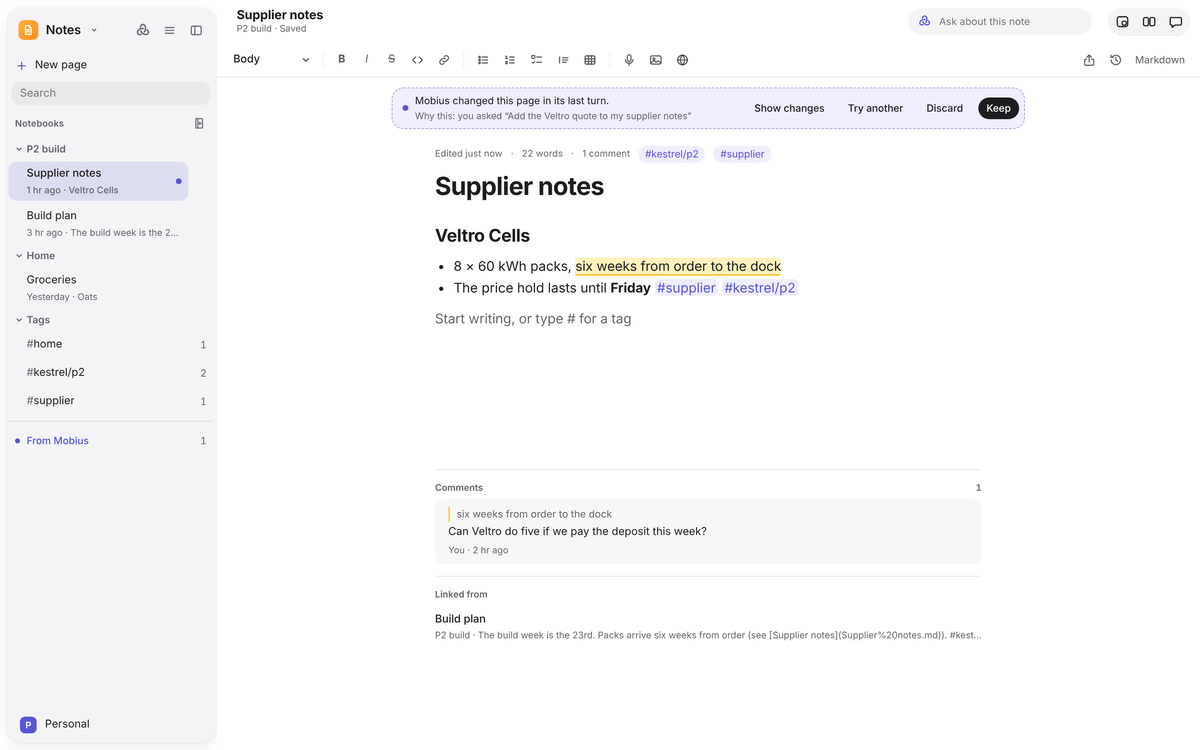
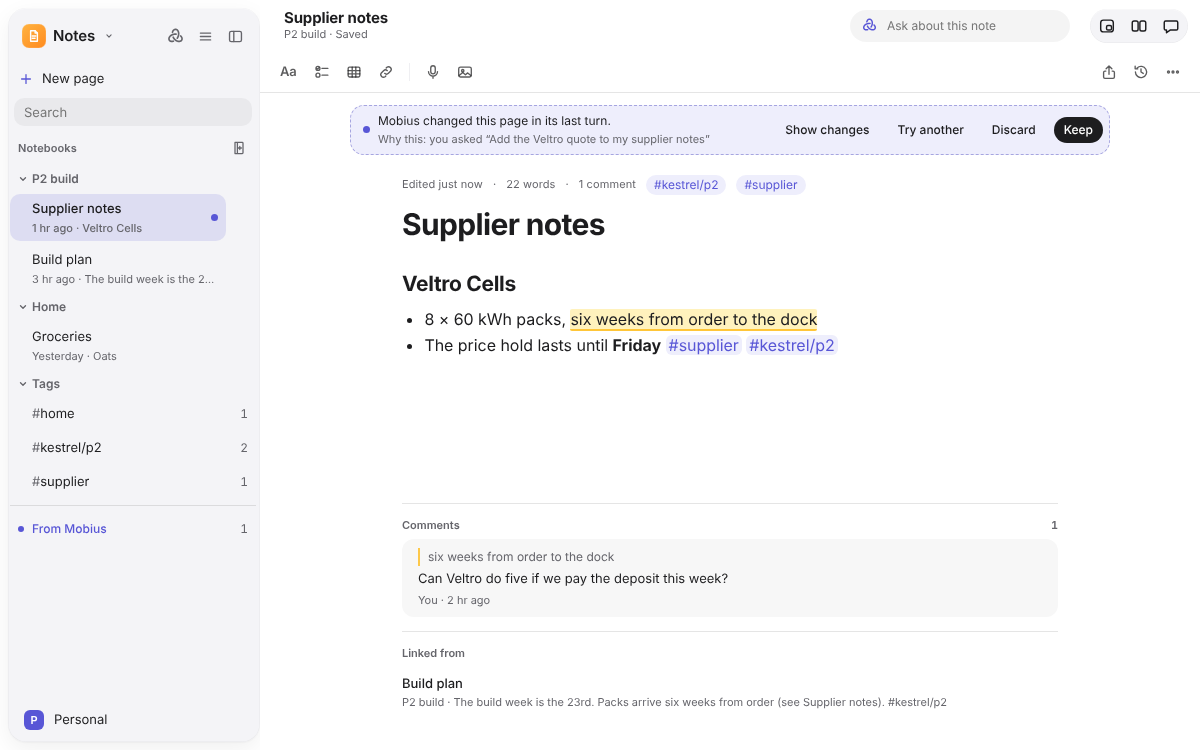
Notes: an Aa panel for styles and marks, a calmer format bar, and the writing hint only on empty pages
- Aa opens one panel with Title, Heading, Subheading and Body, then bold, italic, strikethrough, code, lists and quote,
  as in Apple Notes. The bar keeps Checklist, Table and Link, then Record and Picture; Share and History stay right.
- A More (...) menu holds Clip a web page and Show Markdown; the Markdown button shows only while that view is on.
- 'Start writing, or type # for a tag' shows only under an empty title, not on the empty line at the end of every page.
- Preview: a page's preview drops link markup, as the Rust list does.
- e2e, docs and the README screenshot follow.

Claude-Session: https://claude.ai/code/session_01VRGwo6hyLbLgse9wLW1PkV

diff --git a/apps/desktop/src/NoteEditor.tsx b/apps/desktop/src/NoteEditor.tsx
@@ -2,6 +2,8 @@ import { EmptyState } from './EmptyState';
 import { newItemIn } from './NotesSidebar';
 import { KEPT_EVENT, keepTurn, keptTurns, turnId } from './ReviewStrip';
 import { useEffect, useMemo, useRef, useState, type FormEvent } from 'react';
+import { createPortal } from 'react-dom';
+import { ContextMenu } from './ContextMenu';
 import { settleGone, settleIn, settleKept } from './settle';
 import { EditorContent, useEditor, useEditorState, type Editor } from '@tiptap/react';
 import { Extension } from '@tiptap/core';
@@ -120,10 +122,17 @@ const STYLES = [
   { id: 'h3', label: 'Subheading' },
 ] as const;
 
+/** The styles in the Aa panel, in the order Apple Notes lists them: biggest first. */
+const STYLES_SHOWN = [STYLES[1], STYLES[2], STYLES[3], STYLES[0]];
+
 /** The Markdown the editor holds, written as people write it: one blank line between blocks, a newline at the end. */
 const markdownOf = (e: Editor) => tidyMarkdown(e.getMarkdown());
 
-/** The format bar's buttons, with what they show as pressed. Off in Markdown, where the marks are typed. */
+/**
+ * The format bar, as in Apple Notes: Aa opens a panel with the text styles and marks, and the bar itself keeps only
+ * what is reached for while writing (checklist, table, link). The buttons show as pressed what the cursor is in.
+ * Off in Markdown, where the marks are typed.
+ */
 function FormatButtons({ editor, onLink }: { editor: Editor; onLink: () => void }) {
   const state = useEditorState({
     editor,
@@ -133,6 +142,14 @@ function FormatButtons({ editor, onLink }: { editor: Editor; onLink: () => void 
       bullet: e.isActive('bulletList'), ordered: e.isActive('orderedList'), task: e.isActive('taskList'), quote: e.isActive('blockquote'), table: e.isActive('table'),
     }),
   });
+  const [panel, setPanel] = useState(false);
+  const wrap = useRef<HTMLDivElement>(null);
+  useEffect(() => {
+    if (!panel) return;
+    const away = (e: PointerEvent) => { if (!wrap.current?.contains(e.target as Node | null)) setPanel(false); };
+    window.addEventListener('pointerdown', away);
+    return () => window.removeEventListener('pointerdown', away);
+  }, [panel]);
   const run = (f: (c: ReturnType<Editor['chain']>) => ReturnType<Editor['chain']>) => () => { f(editor.chain().focus()).run(); };
   const setStyle = (id: string) => {
     const chain = editor.chain().focus();
@@ -140,36 +157,52 @@ function FormatButtons({ editor, onLink }: { editor: Editor; onLink: () => void 
     else chain.setHeading({ level: Number(id.slice(1)) as 1 | 2 | 3 }).run();
   };
   const keep = (e: { preventDefault: () => void }) => e.preventDefault();
+  const marked = state.bold || state.italic || state.strike || state.code || state.style !== 'p' || state.bullet || state.ordered || state.quote;
   return (
     <>
-      <select aria-label="Paragraph style" value={state.style} onChange={(e) => setStyle(e.target.value)}>
-        {STYLES.map((s) => <option key={s.id} value={s.id}>{s.label}</option>)}
-      </select>
-      <span className="doc-tool-sep" />
-      <button type="button" className="doc-tool" aria-label="Bold" aria-pressed={state.bold} title="Bold (Ctrl+B)" onPointerDown={keep} onClick={run((c) => c.toggleBold())}><b>B</b></button>
-      <button type="button" className="doc-tool" aria-label="Italic" aria-pressed={state.italic} title="Italic (Ctrl+I)" onPointerDown={keep} onClick={run((c) => c.toggleItalic())}><i>I</i></button>
-      <button type="button" className="doc-tool" aria-label="Strikethrough" aria-pressed={state.strike} title="Strikethrough (Ctrl+Shift+S)" onPointerDown={keep} onClick={run((c) => c.toggleStrike())}><s>S</s></button>
-      <button type="button" className="doc-tool" aria-label="Code" aria-pressed={state.code} title="Code (Ctrl+E)" onPointerDown={keep} onClick={run((c) => c.toggleCode())}>
-        <svg viewBox="0 0 20 20" aria-hidden="true"><path d="M7.5 6 3.5 10l4 4M12.5 6l4 4-4 4" /></svg>
-      </button>
-      <button type="button" className="doc-tool" aria-label="Link" aria-pressed={state.link} title={state.link ? 'Remove the link' : 'Link'} onPointerDown={keep} onClick={() => (state.link ? editor.chain().focus().unsetLink().run() : onLink())}>
-        <svg viewBox="0 0 20 20" aria-hidden="true"><path d="M8.5 11.5a3 3 0 0 0 4.2 0l2.5-2.5a3 3 0 0 0-4.2-4.2l-.8.8M11.5 8.5a3 3 0 0 0-4.2 0L4.8 11a3 3 0 0 0 4.2 4.2l.8-.8" /></svg>
-      </button>
-      <span className="doc-tool-sep" />
-      <button type="button" className="doc-tool" aria-label="Bulleted list" aria-pressed={state.bullet} title="Bulleted list (Ctrl+Shift+8)" onPointerDown={keep} onClick={run((c) => c.toggleBulletList())}>
-        <svg viewBox="0 0 20 20" aria-hidden="true"><circle cx="5" cy="6" r="1" /><circle cx="5" cy="10" r="1" /><circle cx="5" cy="14" r="1" /><path d="M8.5 6h7M8.5 10h7M8.5 14h7" /></svg>
-      </button>
-      <button type="button" className="doc-tool" aria-label="Numbered list" aria-pressed={state.ordered} title="Numbered list (Ctrl+Shift+7)" onPointerDown={keep} onClick={run((c) => c.toggleOrderedList())}>
-        <svg viewBox="0 0 20 20" aria-hidden="true"><path d="M4 5h1.5v3M4 8h3M4 12.5c.5-.8 2.5-.8 2.5.3 0 .8-2.5 1.5-2.5 2.2h2.6M9.5 6h6M9.5 10h6M9.5 14h6" /></svg>
-      </button>
+      <div className="note-aa" ref={wrap}>
+        <button type="button" className="doc-tool note-aa-btn" aria-label="Format text" title="Styles, bold, italic and lists" aria-haspopup="dialog" aria-expanded={panel} data-marked={marked || undefined} onPointerDown={keep} onClick={() => setPanel((o) => !o)}>
+          <span aria-hidden="true">Aa</span>
+        </button>
+        {panel && (
+          <div className="note-aa-panel glass" role="dialog" aria-label="Text format" onKeyDown={(e) => { if (e.key === 'Escape') { e.stopPropagation(); setPanel(false); editor.commands.focus(); } }}>
+            <div className="note-aa-styles" role="group" aria-label="Paragraph style">
+              {STYLES_SHOWN.map((s) => (
+                <button key={s.id} type="button" className="note-aa-style" data-style={s.id} aria-pressed={state.style === s.id} onPointerDown={keep} onClick={() => setStyle(s.id)}>{s.label}</button>
+              ))}
+            </div>
+            <div className="note-aa-row">
+              <div className="note-aa-group" role="group" aria-label="Marks">
+                <button type="button" className="doc-tool" aria-label="Bold" aria-pressed={state.bold} title="Bold (Ctrl+B)" onPointerDown={keep} onClick={run((c) => c.toggleBold())}><b>B</b></button>
+                <button type="button" className="doc-tool" aria-label="Italic" aria-pressed={state.italic} title="Italic (Ctrl+I)" onPointerDown={keep} onClick={run((c) => c.toggleItalic())}><i>I</i></button>
+                <button type="button" className="doc-tool" aria-label="Strikethrough" aria-pressed={state.strike} title="Strikethrough (Ctrl+Shift+S)" onPointerDown={keep} onClick={run((c) => c.toggleStrike())}><s>S</s></button>
+                <button type="button" className="doc-tool" aria-label="Code" aria-pressed={state.code} title="Code (Ctrl+E)" onPointerDown={keep} onClick={run((c) => c.toggleCode())}>
+                  <svg viewBox="0 0 20 20" aria-hidden="true"><path d="M7.5 6 3.5 10l4 4M12.5 6l4 4-4 4" /></svg>
+                </button>
+              </div>
+              <div className="note-aa-group" role="group" aria-label="Lists">
+                <button type="button" className="doc-tool" aria-label="Bulleted list" aria-pressed={state.bullet} title="Bulleted list (Ctrl+Shift+8)" onPointerDown={keep} onClick={run((c) => c.toggleBulletList())}>
+                  <svg viewBox="0 0 20 20" aria-hidden="true"><circle cx="5" cy="6" r="1" /><circle cx="5" cy="10" r="1" /><circle cx="5" cy="14" r="1" /><path d="M8.5 6h7M8.5 10h7M8.5 14h7" /></svg>
+                </button>
+                <button type="button" className="doc-tool" aria-label="Numbered list" aria-pressed={state.ordered} title="Numbered list (Ctrl+Shift+7)" onPointerDown={keep} onClick={run((c) => c.toggleOrderedList())}>
+                  <svg viewBox="0 0 20 20" aria-hidden="true"><path d="M4 5h1.5v3M4 8h3M4 12.5c.5-.8 2.5-.8 2.5.3 0 .8-2.5 1.5-2.5 2.2h2.6M9.5 6h6M9.5 10h6M9.5 14h6" /></svg>
+                </button>
+                <button type="button" className="doc-tool" aria-label="Quote" aria-pressed={state.quote} title="Quote (Ctrl+Shift+B)" onPointerDown={keep} onClick={run((c) => c.toggleBlockquote())}>
+                  <svg viewBox="0 0 20 20" aria-hidden="true"><path d="M5 6v8M9 7h7M9 10h7M9 13h5" /></svg>
+                </button>
+              </div>
+            </div>
+          </div>
+        )}
+      </div>
       <button type="button" className="doc-tool" aria-label="Checklist" aria-pressed={state.task} title="Checklist (Ctrl+Shift+9)" onPointerDown={keep} onClick={run((c) => c.toggleTaskList())}>
-        <svg viewBox="0 0 20 20" aria-hidden="true"><rect x="3.5" y="4" width="4" height="4" rx="1" /><path d="m4.3 13.2 1 1 1.9-2.2M10 6h6.5M10 13h6.5" /></svg>
-      </button>
-      <button type="button" className="doc-tool" aria-label="Quote" aria-pressed={state.quote} title="Quote (Ctrl+Shift+B)" onPointerDown={keep} onClick={run((c) => c.toggleBlockquote())}>
-        <svg viewBox="0 0 20 20" aria-hidden="true"><path d="M5 6v8M9 7h7M9 10h7M9 13h5" /></svg>
+        <svg viewBox="0 0 20 20" aria-hidden="true"><circle cx="5.5" cy="6" r="2.2" /><path d="m4.4 6 .8.8 1.4-1.6" /><circle cx="5.5" cy="13.5" r="2.2" /><path d="M10 6h6.5M10 13.5h6.5" /></svg>
       </button>
       <button type="button" className="doc-tool" aria-label="Table" aria-pressed={state.table} title={state.table ? 'Delete table' : 'Insert table'} onPointerDown={keep} onClick={run((c) => (state.table ? c.deleteTable() : c.insertTable({ rows: 3, cols: 2, withHeaderRow: true })))}>
         <svg viewBox="0 0 20 20" aria-hidden="true"><rect x="3.5" y="4.5" width="13" height="11" rx="1.5" /><path d="M3.5 8.5h13M3.5 12h13M8 4.5v11M12 4.5v11" /></svg>
+      </button>
+      <button type="button" className="doc-tool" aria-label="Link" aria-pressed={state.link} title={state.link ? 'Remove the link' : 'Link to a note or a web page (or type [[)'} onPointerDown={keep} onClick={() => (state.link ? editor.chain().focus().unsetLink().run() : onLink())}>
+        <svg viewBox="0 0 20 20" aria-hidden="true"><path d="M8.5 11.5a3 3 0 0 0 4.2 0l2.5-2.5a3 3 0 0 0-4.2-4.2l-.8.8M11.5 8.5a3 3 0 0 0-4.2 0L4.8 11a3 3 0 0 0 4.2 4.2l.8-.8" /></svg>
       </button>
       {state.table && (
         <>
@@ -233,7 +266,9 @@ export function NoteEditor({ notes, autoFocus = true, onSelection, review }: { n
       TaskList,
       TaskItem.configure({ nested: true }),
       Markdown,
-      Placeholder.configure({ placeholder: ({ node }) => (node.type.name === 'heading' ? 'Title' : 'Start writing, or type # for a tag') }),
+      // The hints are for a page still to be written: an empty title, and the first line under it. A page with words
+      // in it shows none, so the empty line kept at its end does not read as a prompt.
+      Placeholder.configure({ placeholder: ({ editor: e, node, pos }) => (node.type.name === 'heading' ? (pos === 0 ? 'Title' : '') : e.state.doc.childCount <= 2 ? 'Start writing, or type # for a tag' : '') }),
       NoteTags,
       image,
       commentMarks,
@@ -366,6 +401,7 @@ export function NoteEditor({ notes, autoFocus = true, onSelection, review }: { n
   const caret = useRef<number | null>(null);
   useEffect(() => { caret.current = null; }, [path]);
   const [clipping, setClipping] = useState<string | null>(null);
+  const [more, setMore] = useState<{ x: number; y: number } | null>(null);
   const [linking, setLinking] = useState<string | null>(null);
   const [insertProblem, setInsertProblem] = useState<string | null>(null);
   const recordedFor = useRef(0);
@@ -584,9 +620,6 @@ export function NoteEditor({ notes, autoFocus = true, onSelection, review }: { n
                 <input ref={picker} type="file" multiple hidden aria-label="Choose files to add" onChange={(e) => { const files = [...(e.target.files ?? [])]; e.target.value = ''; void addFiles(files); }} />
               </>
             )}
-            <button type="button" className="doc-tool" aria-label="Clip from web" title="Clip a web page into this page" aria-expanded={clipping !== null} onPointerDown={keep} onClick={() => setClipping((c) => (c === null ? '' : null))}>
-              <svg viewBox="0 0 20 20" aria-hidden="true"><circle cx="10" cy="10" r="6.5" /><path d="M3.5 10h13M10 3.5c-2 2-2.8 4.2-2.8 6.5s.8 4.5 2.8 6.5M10 3.5c2 2 2.8 4.2 2.8 6.5s-.8 4.5-2.8 6.5" /></svg>
-            </button>
           </div>
           <span className="spacer" />
           <div className="note-share">
@@ -614,7 +647,18 @@ export function NoteEditor({ notes, autoFocus = true, onSelection, review }: { n
               <svg viewBox="0 0 20 20" aria-hidden="true"><path d="M3.8 10a6.2 6.2 0 1 0 1.9-4.5M3.5 3.5v3h3M10 6.5V10l2.5 1.6" /></svg>
             </button>
           )}
-          <button type="button" className="doc-tool text note-source" aria-pressed={source} title={source ? 'Show the page formatted' : 'Show and type the Markdown the page is kept as'} onClick={toggleSource}>Markdown</button>
+          {source && <button type="button" className="doc-tool text note-source" aria-pressed title="Show the page formatted" onClick={toggleSource}>Markdown</button>}
+          <button type="button" className="doc-tool" aria-label="More" title="More for this page" aria-haspopup="menu" aria-expanded={more !== null}
+            onClick={(e) => { const r = e.currentTarget.getBoundingClientRect(); setMore((m) => (m ? null : { x: r.right - 220, y: r.bottom + 6 })); }}>
+            <svg viewBox="0 0 20 20" aria-hidden="true"><circle cx="5" cy="10" r="1.1" /><circle cx="10" cy="10" r="1.1" /><circle cx="15" cy="10" r="1.1" /></svg>
+          </button>
+          {more && createPortal(
+            <ContextMenu x={more.x} y={more.y} label="More" onClose={() => setMore(null)} items={[
+              { label: 'Clip a web page…', run: () => setClipping('') },
+              { label: source ? 'Show formatted' : 'Show Markdown', run: toggleSource, separated: true },
+            ]} />,
+            document.body,
+          )}
           {clipping !== null && (
             <form className="note-clip" onSubmit={(e) => { e.preventDefault(); if (clipping.trim()) void clip(clipping); }}>
               <input autoFocus aria-label="Address to clip" placeholder="Paste a link" value={clipping} onChange={(e) => setClipping(e.target.value)} onKeyDown={(e) => { if (e.key === 'Escape') setClipping(null); }} />

diff --git a/apps/desktop/src/notes.css b/apps/desktop/src/notes.css
@@ -158,3 +158,22 @@
 .note-comment-replies { list-style: none; margin: 4px 0 0 10px; padding: 0 0 0 10px; border-left: 1px solid var(--hairline, var(--line)); display: grid; gap: 6px; }
 .note-comment-reply { display: grid; gap: 2px; font-size: var(--fs-sm); }
 .note-comment-reply .note-comment-who { color: var(--muted); font-size: var(--fs-xs); }
+
+/* Aa: the text styles and marks in one panel under the bar, as in Apple Notes. The bar keeps what is used while writing. */
+.note-aa { position: relative; display: inline-flex; }
+.note-editor .note-format .note-aa-btn { font-weight: 600; font-size: var(--fs-md); letter-spacing: -0.01em; padding: 0 8px; }
+.note-editor .note-format .note-aa-btn[aria-expanded="true"] { color: var(--accent); background: color-mix(in srgb, var(--accent) 13%, transparent); }
+.note-aa-panel { position: absolute; top: calc(100% + 8px); left: 0; z-index: 20; width: 272px; display: grid; gap: 10px; padding: 10px; border-radius: 14px; border: 0.5px solid var(--hairline); box-shadow: 0 12px 32px rgba(0, 0, 0, 0.16), 0 1px 3px rgba(0, 0, 0, 0.08); animation: note-sheet-in var(--dur-fast) var(--ease); }
+.note-aa-styles { display: grid; gap: 1px; }
+.note-aa-style { text-align: left; padding: 5px 10px; border-radius: 8px; color: var(--ink); line-height: 1.25; transition: background-color var(--dur-fast) var(--ease); }
+.note-aa-style:hover { background: color-mix(in srgb, var(--ink) 7%, transparent); }
+.note-aa-style[aria-pressed="true"] { background: color-mix(in srgb, var(--accent) 14%, transparent); color: var(--accent); }
+.note-aa-style[data-style="h1"] { font-size: 20px; font-weight: 700; letter-spacing: -0.01em; }
+.note-aa-style[data-style="h2"] { font-size: 16px; font-weight: 700; }
+.note-aa-style[data-style="h3"] { font-size: var(--fs-md); font-weight: 600; }
+.note-aa-style[data-style="p"] { font-size: var(--fs-md); }
+.note-aa-row { display: flex; gap: 8px; }
+.note-aa-group { flex: 1; display: flex; justify-content: space-between; padding: 2px; border-radius: 10px; background: color-mix(in srgb, var(--ink) 6%, transparent); }
+.note-aa-group .doc-tool { flex: 1; color: var(--ink); border-radius: 8px; }
+.note-aa-group .doc-tool:hover { background: color-mix(in srgb, var(--ink) 8%, transparent); }
+.note-aa-group .doc-tool[aria-pressed="true"] { color: var(--accent); background: var(--bg); box-shadow: 0 1px 2px rgba(0, 0, 0, 0.12); }

diff --git a/apps/desktop/e2e/notes.spec.ts b/apps/desktop/e2e/notes.spec.ts
@@ -142,7 +142,7 @@ test('if the agent changes the page while the person is typing, nothing is lost 
   expect(onDisk('Work', 'Plan.md')).toBe('# Plan mine!\n');
 });
 
-test('the format bar makes a checklist you tick, and Insert clips a web page where the cursor is', async () => {
+test('the format bar makes a checklist you tick, and More clips a web page where the cursor is', async () => {
   await start();
   await newNotebook('Trip');
   await retitle('Offsite');
@@ -161,8 +161,9 @@ test('the format bar makes a checklist you tick, and Insert clips a web page whe
   await shell().keyboard.press('End');
   await shell().keyboard.press('Enter');
   await shell().keyboard.press('Enter');
-  const insert = format().getByRole('group', { name: 'Insert' });
-  await insert.getByRole('button', { name: 'Clip from web' }).click();
+  // Clipping is in the bar's More menu.
+  await format().getByRole('button', { name: 'More' }).click();
+  await shell().getByRole('menu', { name: 'More' }).getByRole('menuitem', { name: 'Clip a web page…' }).click();
   await format().getByRole('textbox', { name: 'Address to clip' }).fill(`${fixture.origin}/casa-amora`);
   await format().getByRole('button', { name: 'Clip', exact: true }).click();
   await expect(text().locator('blockquote')).toContainText('Nine rooms in Príncipe Real.');
@@ -202,7 +203,8 @@ test('the Markdown view shows the file as it is kept, and typing there is saved'
   await start();
   await side().getByRole('button', { name: 'Plan', exact: true }).click();
   await expect(text().getByRole('checkbox', { name: 'Task item checkbox for Call Sam' })).not.toBeChecked();
-  await format().getByRole('button', { name: 'Markdown' }).click();
+  await format().getByRole('button', { name: 'More' }).click();
+  await shell().getByRole('menu', { name: 'More' }).getByRole('menuitem', { name: 'Show Markdown' }).click();
   await expect(source()).toHaveValue('# Plan\n\n- [ ] Call Sam\n');
   await source().press('Control+End');
   await source().pressSequentially('- [x] Book the sled\n');

diff --git a/apps/desktop/src/bridge/preview.ts b/apps/desktop/src/bridge/preview.ts
@@ -53,7 +53,7 @@ const NOTES = () => [
   { name: 'Home', pages: [notePage('Home/Groceries.md', now - 30 * hour)] },
 ];
 /** The first line under the title, as the Rust list gives it (roughly: enough for the preview). */
-const previewOf = (text: string) => (text.split('\n').map((l) => l.trim()).filter((l) => l && !l.startsWith('# ') && !l.startsWith('|'))[0] ?? '').replace(/^#+\s*|^[-*] (\[[ x]\] )?/g, '').replace(/[*_`]/g, '').slice(0, 120);
+const previewOf = (text: string) => (text.split('\n').map((l) => l.trim()).filter((l) => l && !l.startsWith('# ') && !l.startsWith('|'))[0] ?? '').replace(/^#+\s*|^[-*] (\[[ x]\] )?/g, '').replace(/!?\[([^\]]*)\]\([^)]*\)/g, '$1').replace(/[*_`]/g, '').slice(0, 120);
 /** One turn of Mobius's, still waiting to be kept, so the dashed proposals and Why this can be looked at. */
 const TURN = { start: 'abc1234', end: null, when: now - 5 * 60_000, ask: 'Add the Veltro quote to my supplier notes', files: ['notes/P2 build/Supplier notes.md', 'tasks/P2 build.md', 'docs/P2 build/Build brief.md', 'sheets/P2 budget/Sheet 1.csv'] };
 

diff --git a/docs/design/workspace-layout.md b/docs/design/workspace-layout.md
@@ -83,9 +83,9 @@ The apps on the canvas, each keeping its data as ordinary files other apps can o
 - **Calendar** (`calendar/*.ics`): day, week and month; subscribed links and CalDAV accounts (iCloud, Fastmail,
   Nextcloud) beside the person's own calendars; Mobius's suggestions dashed with Decline and Add. Google and Microsoft
   sign-in need app registrations ([calendar sign-in](../reference/calendar-sign-in.md)).
-- **Notes** Insert bar (from the Notebook board): a checklist or a table at the cursor, Record (up to ten minutes,
-  turned into words by the speech model and kept as a section), and Clip from web (a page's first paragraphs quoted
-  with its link).
+- **Notes** format bar: Aa (styles and marks in one panel), a checklist, a table or a link at the cursor, Record (up
+  to ten minutes, turned into words by the speech model and kept as a section), and in the ⋯ menu Clip a web page (a
+  page's first paragraphs quoted with its link) and the Markdown view.
 - **Docs** (`docs/<folder>/*.md`): a page with formatting, an outline, writing tools, and the agent's changes as
   proposals in the page.
 - **Sheets** (`sheets/<workbook>/*.csv`): formulas worked out in Rust for the window and the agent alike; cells the

diff --git a/docs/apps/write-and-plan.md b/docs/apps/write-and-plan.md
@@ -9,7 +9,9 @@ Quick pages, saved as you type.
 - **Notebooks** in the sidebar, newest pages first, with search, **Pinned** pages at the top and a **Tags** section
   built from every `#tag` you write.
 - **Formatted as you write**: headings, lists, checklists you tick, tables, pictures, links between notes, and
-  recordings (up to ten minutes). The **Markdown** button shows the file itself.
+  recordings (up to ten minutes). As in Apple Notes, **Aa** opens the text styles (Title, Heading, Subheading, Body),
+  bold, italic, strikethrough, code, lists and quote; the bar keeps Checklist, Table and Link at hand. The **⋯** menu
+  clips a web page into the note and shows the Markdown file itself.
 - **History** lists earlier versions by day, compares one with the page now, and **Restore** puts it back (and can be
   undone the same way).
 - **Share** copies the page, exports it as a web page or Markdown, or prints it.
